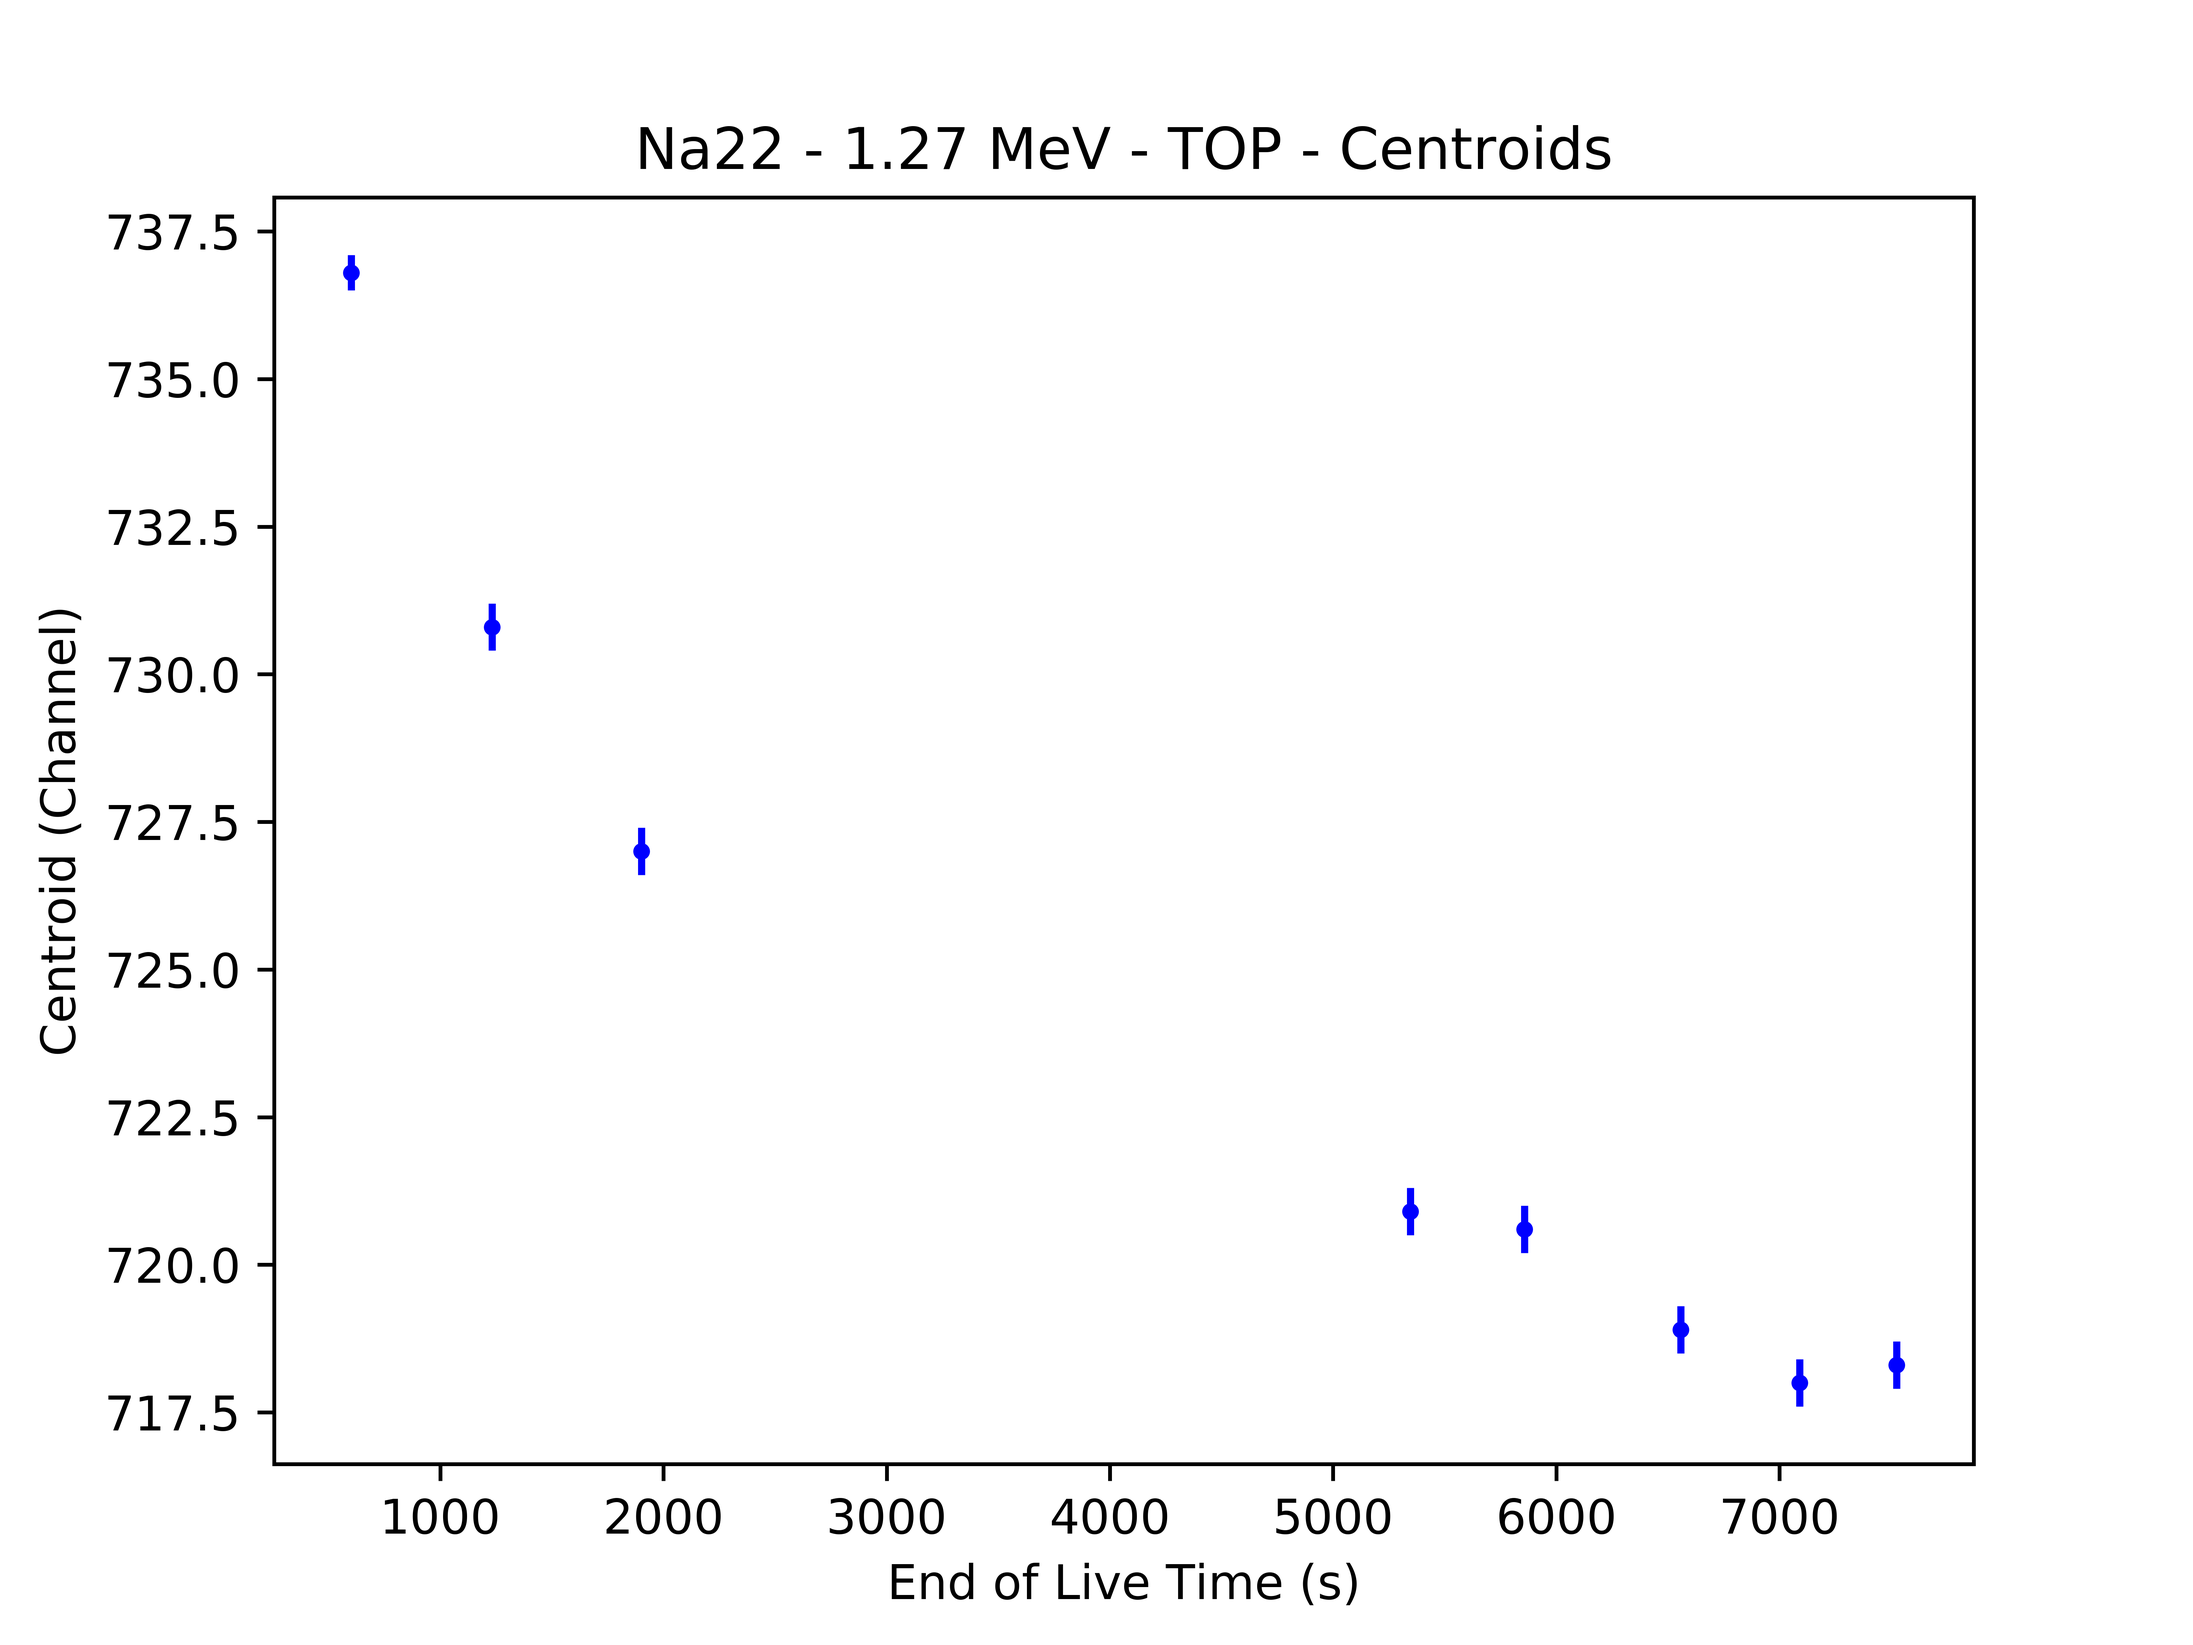
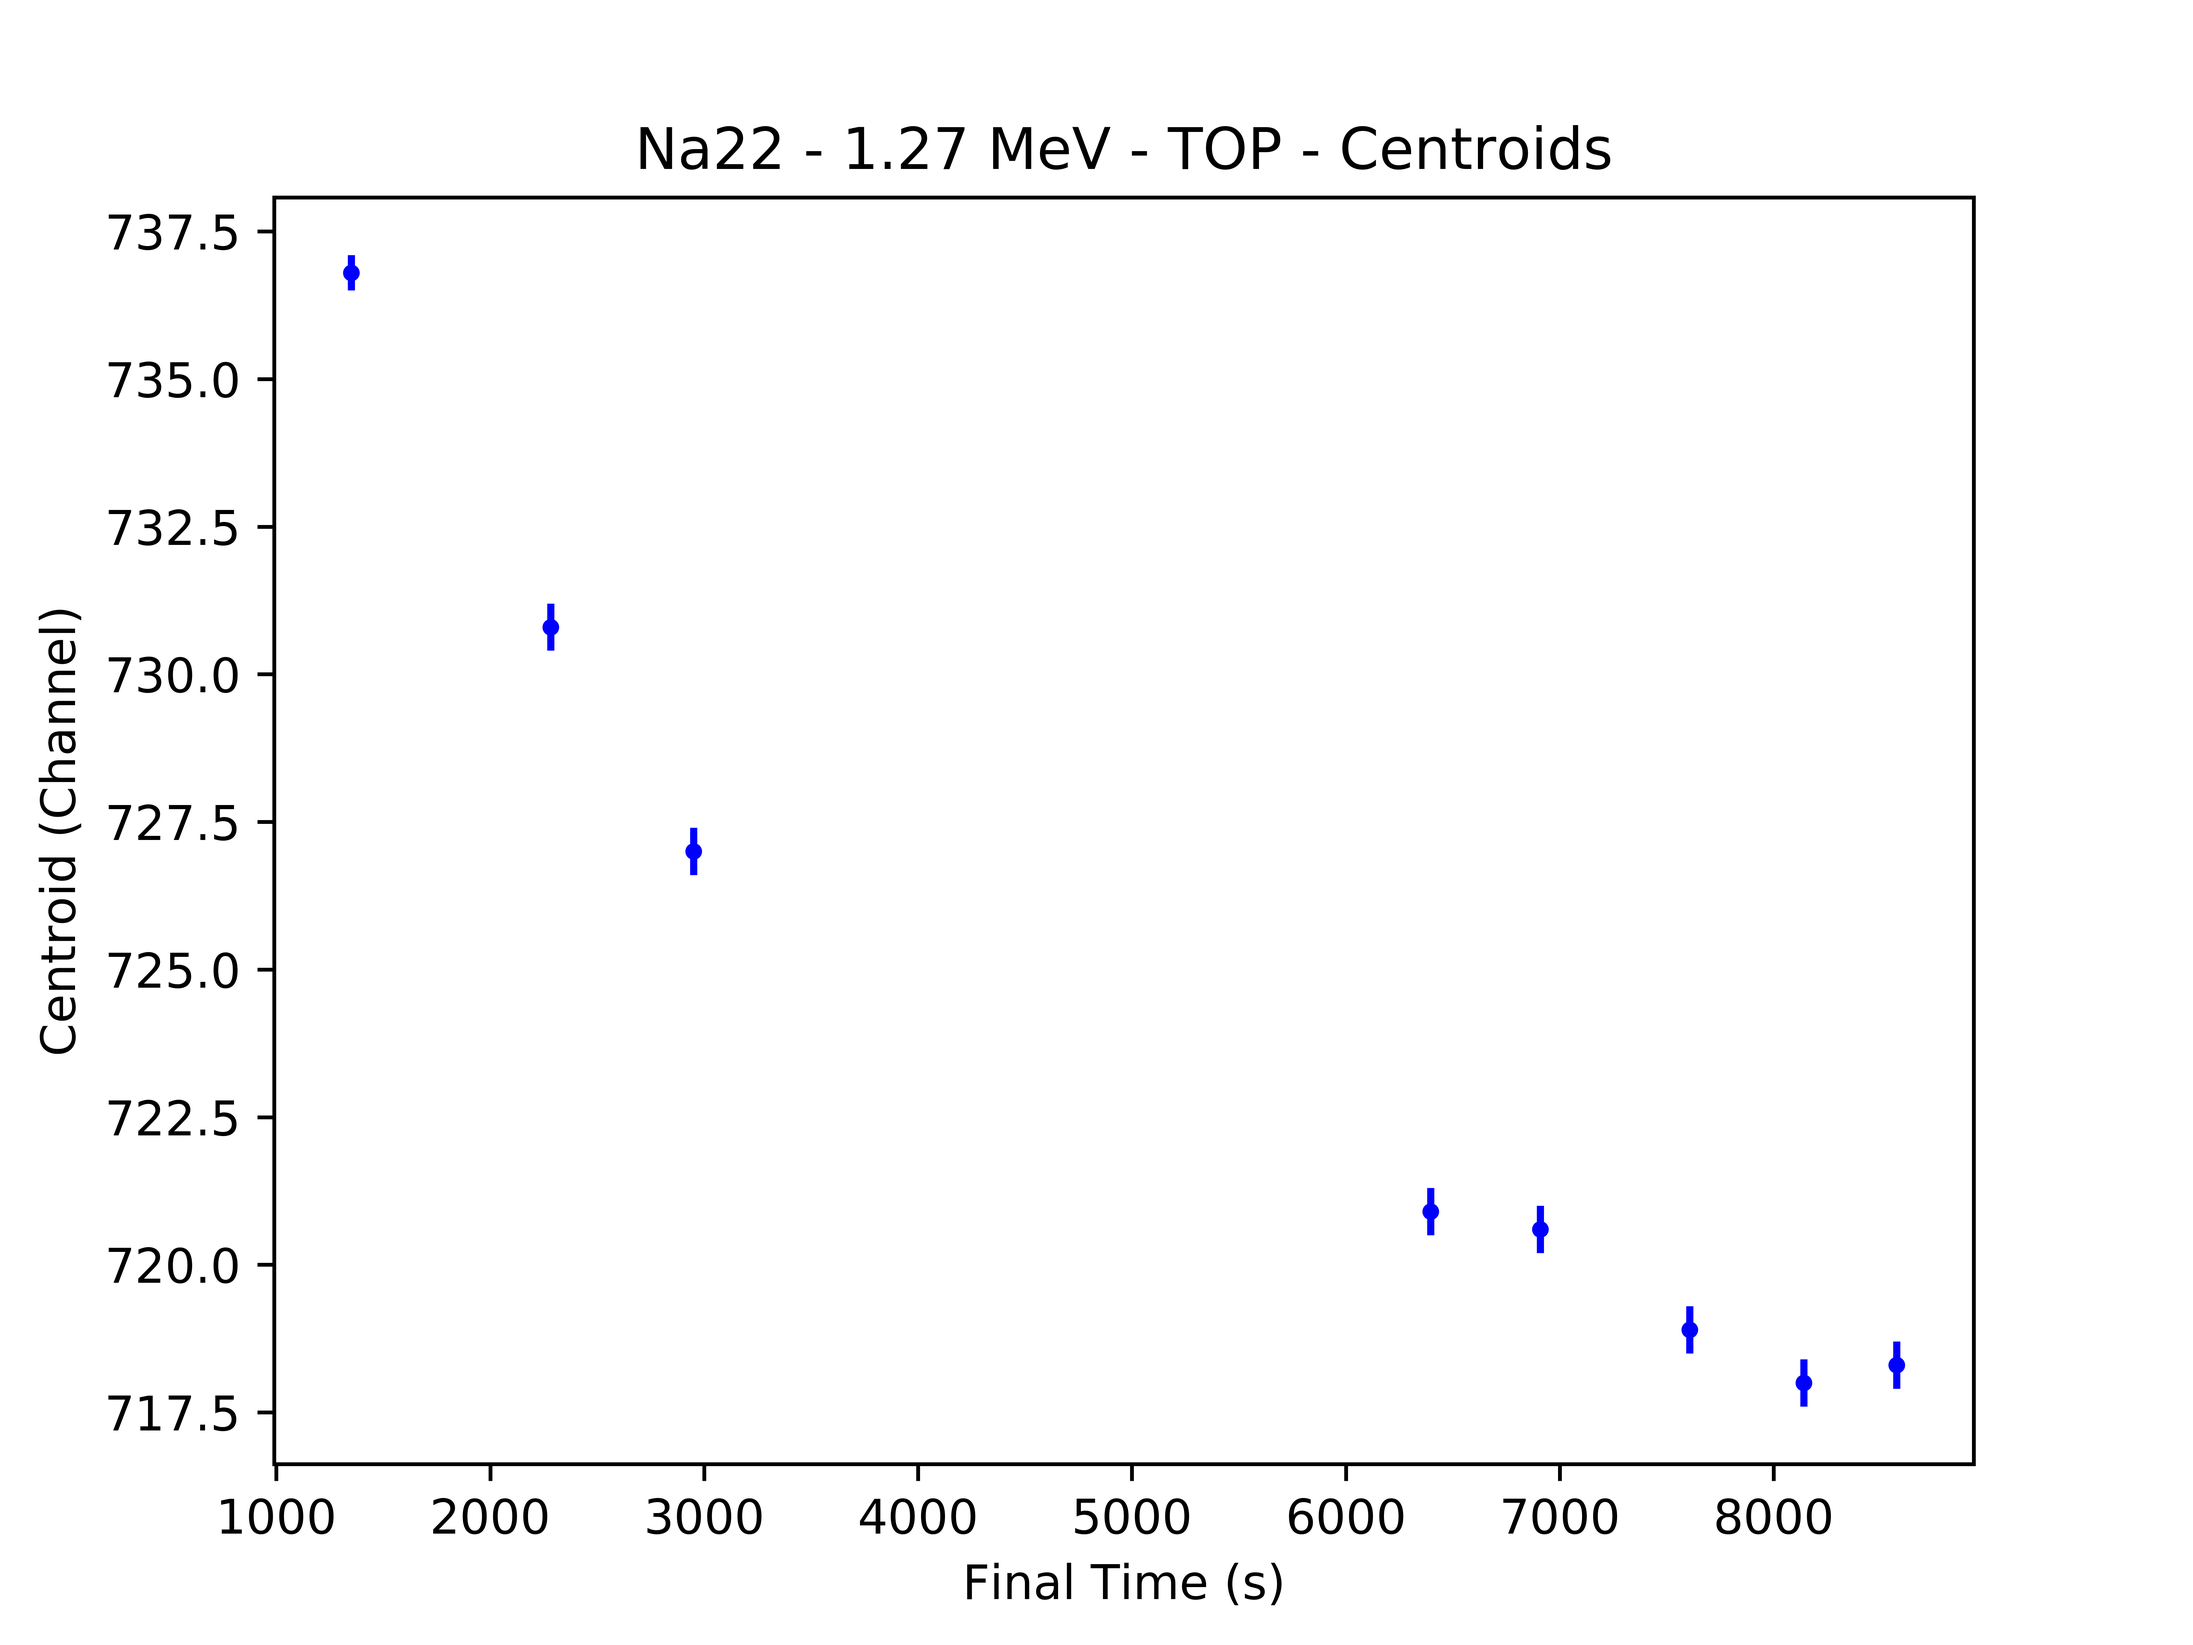
final updates

diff --git a/scripts/fit.py b/scripts/fit.py
@@ -255,7 +255,18 @@ ROUND2_DHEIGHTS = ROUND1_DHEIGHTS = np.array([2, 2,  2,   2,   2])
 # data constants - round 3 apparatus (lengths in 1e-3 m)
 ROUND3_THICKNESSES = np.array([5.98, 4.52, 3.04, 1.96, 1.55, 1.00, 0.49, 0,])
 ROUND3_DTHICKNESSES = np.array([1e-2] * len(ROUND3_THICKNESSES))
-ROUND3_TOP_TIMES = np.array([602, 1233, 1901, 5346, 5858, 6557, 7091, 7524])
+ROUND3_TOP_TIMES = np.array([
+    (1351, 1953),
+    (2283, 2584),
+    (2951, 3252),
+    (6396, 6697),
+    (6908, 7209),
+    (7607, 7908),
+    (8141, 8442),
+    (8574, 8875),
+])
+DTIME = 0.01 #s
+
 
 # data constants - gaussian fits - round 0
 ROUND0_NA22_127_STEP_INITIAL_PARAMETERS = [200., 750., 10., 1., 1.]
@@ -1068,14 +1079,14 @@ def plot_round3_mid_centroids():
 def plot_round3_top_centroids():
     centroids = ROUND3_NA22_127_TOP_PEAKS[:, 0]
     dcentroids = ROUND3_NA22_127_TOP_PEAKS[:, 1]
-    times = ROUND3_TOP_TIMES
+    times = ROUND3_TOP_TIMES[:, 0]
     save_file_path = ROUND3_NA22_127_CENTROIDS_TOP_SAVE_FILE_PATH
     plt.figure()
     plt.errorbar(times, centroids, yerr=dcentroids, color="blue",
                  fmt=".", ms=MARKER_SIZE, linestyle="None")
     plt.title("Na22 - 1.27 MeV - TOP - Centroids")
     plt.ylabel("Centroid (Channel)")
-    plt.xlabel("End of Live Time (s)")
+    plt.xlabel("Final Time (s)")
     plt.savefig(save_file_path,
                 dpi=DPI)
 #ENDDEF
@@ -1147,7 +1158,7 @@ def main():
                          ROUND1_HEIGHTS,
                          ROUND1_DHEIGHTS,
                          ROUND1_NA22_127_STEP_COUNTS_SAVE_FILE_PATH,
-                         title="Na22 - 1.27 MeV - Experiment 3 - Counts",
+                         title="Na22 - 1.27 MeV - Experiment 2 - Counts",
         )
     #ENDIF
 
